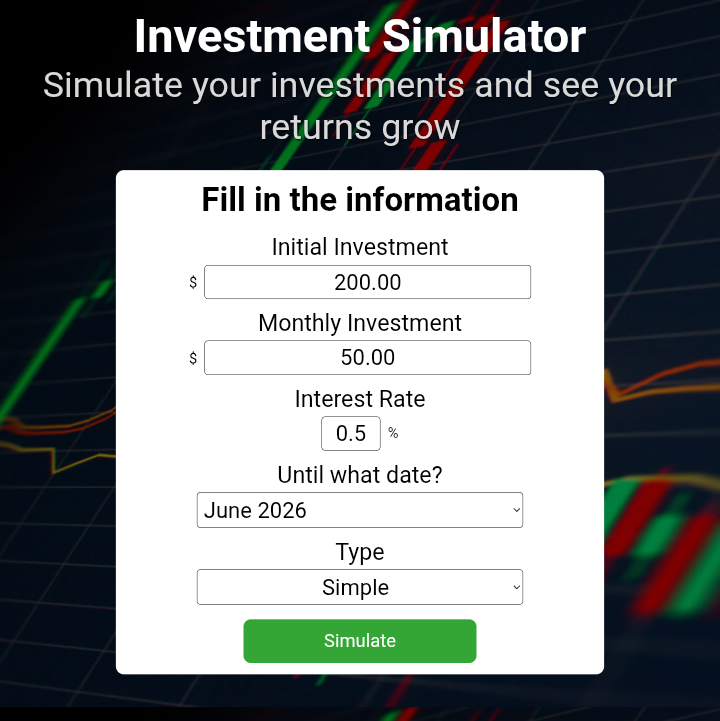
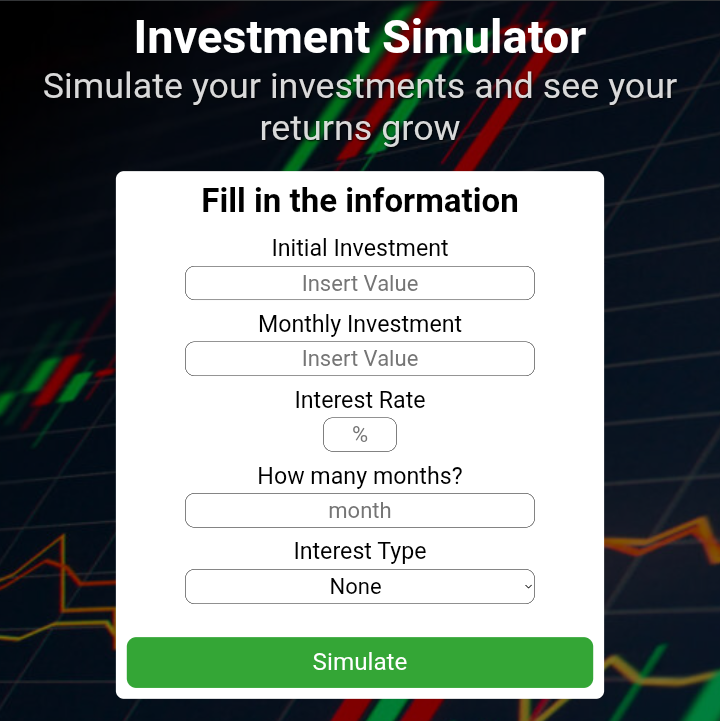
feat: add calculation logic and loader animation

diff --git a/script.js b/script.js
@@ -1,0 +1,106 @@
+const input_initial_value = document.getElementById('initial_value');
+const input_monthly_value = document.getElementById('monthly_value');
+const input_interest = document.getElementById('interest');
+const button = document.getElementById('button')
+const response = document.getElementById('response');
+const input_duration = document.getElementById('duration');
+const select_interest_type = document.getElementById('interest-type')
+
+input_initial_value.addEventListener('input', () => {
+  clear_input(input_initial_value);
+  format_input_value(input_initial_value);
+});
+
+input_monthly_value.addEventListener('input', () => {
+  clear_input(input_monthly_value);
+  format_input_value(input_monthly_value);
+});
+
+input_interest.addEventListener('input', () => {
+  let value = Number(input_interest.value);
+  if (value > 100){
+    window.alert('Max 100% rate!')
+    input_interest.value = ''
+    return;
+  };
+});
+
+button.addEventListener('click', () => {
+  let raw_initial = input_initial_value.value.replace(/[^\d.]/g, '');
+  let raw_monthly = input_monthly_value.value.replace(/[^\d.]/g, '');
+
+  let initial_value = parseFloat(raw_initial);
+  let monthly_value = parseFloat(raw_monthly);
+  let interest_value = Number(input_interest.value);
+  let duration = parseInt(input_duration.value)
+  let interest_type = select_interest_type.value
+
+  if (isNaN(initial_value) || isNaN(monthly_value) || duration == '' || interest_value == '' || interest_type == 'none') {
+    window.alert('incomplet inputs!');
+    return;
+  } else {
+    response.innerHTML = ''
+    interest_value /= 100
+    function format_number_value(value) {
+      return new Intl.NumberFormat('en-US', {
+        style: 'currency',
+        currency: 'USD'
+      }).format(value);
+    };    
+    const loader = document.getElementById('loader');
+    loader.style.display = 'block'
+    setTimeout(() => {
+      loader.style.display = 'none'
+    }, 2500);
+    setTimeout(() => {
+      let invested = initial_value + monthly_value * duration
+      let invested_value = format_number_value(invested)
+      if (interest_type == 'compound') {
+        let calc = initial_value  * (1 + interest_value) ** duration + monthly_value * (((1 + interest_value) ** duration - 1) / interest_value)
+        let result = format_number_value(calc)
+        let calc_profit = calc - invested      
+        let profit = format_number_value(calc_profit.toFixed(2))        
+        response.innerHTML = `Total Invested: ${invested_value}<br>`;
+        response.innerHTML += `Total Amount: ${result}<br>`;
+        response.innerHTML += `Profit: ${profit}`;
+    } else if (interest_type == 'simple') {
+        let calc = initial_value * (1 + interest_value * duration) +
+           (monthly_value * duration) +
+           (monthly_value * interest_value * (duration * (duration + 1)) / 2);
+        let result = format_number_value(calc)
+        let calc_profit = calc - invested      
+        let profit = format_number_value(calc_profit.toFixed(2))              
+        response.innerHTML = `Total Invested: ${invested_value}<br>`;
+        response.innerHTML += `Total Amount: ${result}<br>`;
+        response.innerHTML += `Profit: ${profit}`;      
+      }
+    }, 2500)
+  }
+});
+
+function clear_input(input) {
+  let raw = input.value.replace(/[^\d]/g, '');
+  if (raw === '') {
+    input.value = '';
+    return '';
+  }
+  if (raw.length > 15) {
+    window.alert('Max 15 digits.');
+    raw = raw.slice(0, 15);
+  }
+  input.value = raw;
+  return raw;
+}
+
+function format_input_value(input) {
+  let raw = input.value.replace(/[^\d]/g, '');
+  if (raw === '') {
+    input.value = '';
+    return;
+  }
+  let value = (parseFloat(raw) / 100).toFixed(2);
+  input.value = new Intl.NumberFormat('en-US', {
+    style: 'currency',
+    currency: 'USD'
+  }).format(value);
+}

diff --git a/index.html b/index.html
@@ -29,10 +29,9 @@
         </div>
 
         <label for="interest">Interest Rate</label>
-          <input type="number" name="interest" id="interest" placeholder="Value"/>
-
-        <label for="duration">Until what date?</label>
-        <input type="month" name="duration" id="duration" min="2025-07"/>
+          <input type="number" name="interest" id="interest" placeholder="%"/>
+        <label for="duration">How many months?</label>
+        <input type="number" name="duration" id="duration" placeholder="month"/>
 
         <label for="interest-type">Interest Type</label>
         <select id="interest-type">
@@ -40,8 +39,11 @@
           <option value="simple">Simple</option>
           <option value="compound">Compound</option>
         </select>
-
-        <button id="buttonsimulate">Simulate</button>
+        <div id="loader" class="loader"></div>
+        <div class="answer-box">
+          <p id="response"></p>
+        </div>
+        <button type="button" id="button">Simulate</button>
       </div>
     </section>
     <section>
@@ -58,5 +60,6 @@
       </div>      
     </section>
   </div>
+  <script src="script.js"></script>
 </body>
 </html>

diff --git a/style.css b/style.css
@@ -108,6 +108,34 @@ span {
   background-color: #007d02af;
   cursor: pointer;
 }
+.loader {
+  width: 60px;
+  height: 60px;
+  border: 3px solid #000000;
+  border-top: 3px solid #3498db;
+  border-radius: 50%;
+  animation: spin 1s linear infinite;
+  margin: auto;
+  margin-top: 28px;
+  display: none;
+}
+
+@keyframes spin {
+  0% { transform: rotate(0deg); }
+  100% { transform: rotate(360deg); }
+}
+
+
+@keyframes spin {
+  0% { transform: rotate(0deg); }
+  100% { transform: rotate(360deg); }
+}
+
+.answer-box {
+  width: 100%;
+  padding-top: 25px;
+  font-size: 28px;
+}
 
 .why-use {
   padding: 20px;
@@ -159,8 +187,19 @@ span {
     padding: 12px;
   }
   
+  .answer-box {
+    padding-top: 13px;
+    font-size: 20px;
+  }
+  
   .why-use {
     font-size: 17px;
+  }
+
+
+  .loader {
+  width: 30px;
+  height: 30px;
   }
 }
 

diff --git a/README.md b/README.md
@@ -3,19 +3,27 @@
 <p align="center">
   <img src="https://img.shields.io/badge/HTML5-E34F26?style=for-the-badge&logo=html5&logoColor=white" alt="HTML5 Badge" />
   <img src="https://img.shields.io/badge/CSS3-1572B6?style=for-the-badge&logo=css3&logoColor=white" alt="CSS3 Badge" />
-  <img src="https://img.shields.io/badge/status-In--Development-yellow?style=for-the-badge" />
+  <img src="https://img.shields.io/badge/JavaScript-F7DF1E?style=for-the-badge&logo=javascript&logoColor=black" />
 </p>
 
 ## 🖼 Preview
 
 <img src="assets/preview.png" width="100%" alt="Project preview"/>
 
-> A website to simulate future investments based on monthly deposits, interest rate, and duration.
+> A website to simulate future investments based on monthly deposits, interest rate, interest type and duration.
 
 ## ✨ Features
 
-- 💡 Responsive design
-- 🛠 Functional investment calculator *(coming soon)*
+- 📊 Interactive investment calculator.
+- 💰 Calculates returns with interest rates.
+- 💡 Responsive design for all devices.
+
+## 🛠 Upcoming Features
+
+- 📈 Chart visualization.
+- 💲 Choice of coins.
+- 🇧🇷 Translation button for pt-BR.
+- 📉 Interest-free calculations.
 
 ## 📝 License
 
